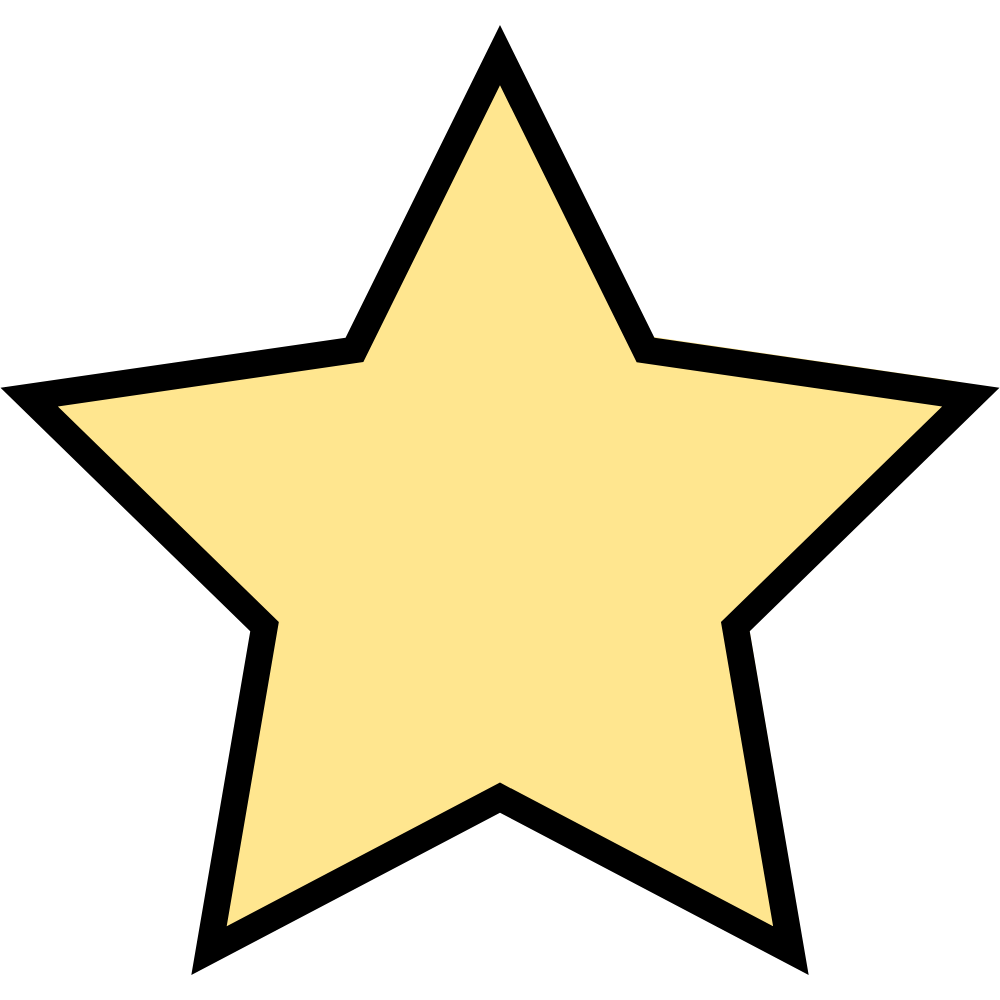
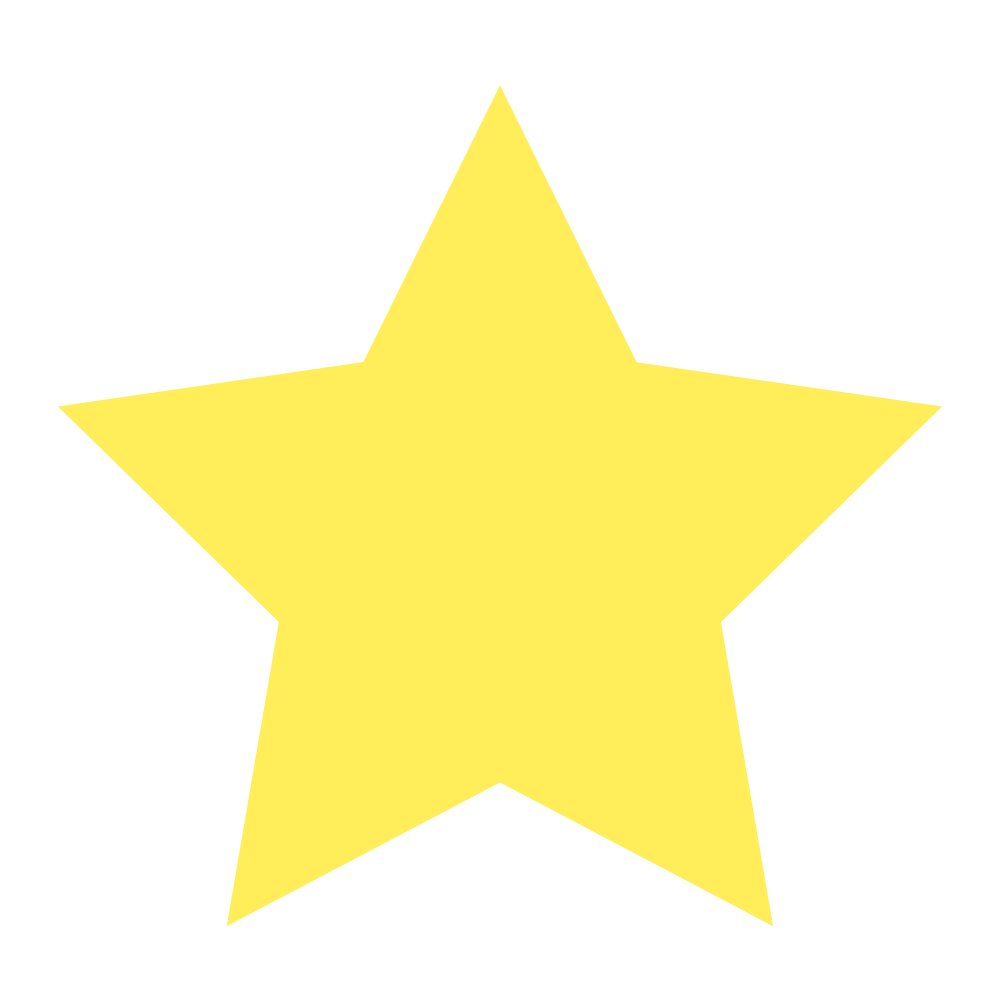
v1.1.1

diff --git a/public/config.html b/public/config.html
@@ -15,9 +15,8 @@
         <nav class="nav">
             <a href="inicio.html" class="aDoNav">Inicio</a>
             <a href="avaliar.html" class="aDoNav">Avaliar</a>
-            <a href="admin.html" class="aDoNav">Admin</a>
         </nav>
-        <a href="perfil.html">
+        <a href="perfil.html" class="perfil-header">
             <div class="divFoto">
                 <img src="css/fotos/semFoto.png" alt="Sem foto" width="40px">
                 <p>Sem nome</p>
@@ -27,5 +26,33 @@
             <a href="config.html" class="aDoNav"><img src="css/fotos/config.png" alt="Configurações" width="40px" class="engrenagem"></a>
         </div>
     </header>
+    <main>
+        <section class="sec-boxes">
+            <a href="admin.html">
+                <div class="config-box">
+                    <div>
+                        <img src="css/fotos/admin.png" alt="Adiminstrador logo" width="200px">
+                    </div>
+                    <div>
+                        <h2>Admin</h2>
+                        <p>Painel de administrador.</p>
+                    </div>
+                </div>
+            </a>
+
+            <a href="perfil.html">
+                <div class="config-box">
+                    <div>
+                        <img src="css/fotos/semFoto.png" alt="Perfil logo" width="200px">
+                    </div>
+                    <div>
+                        <h2>Perfil</h2>
+                        <p>Configure seu perfil.</p>
+                    </div>
+                </div>
+            </a>
+            
+        </section>
+    </main>
 </body>
 </html>

diff --git a/public/css/avaliar.css b/public/css/avaliar.css
@@ -70,6 +70,7 @@
 .input-box {
     display: flex;
     flex-direction: column;
+    margin-bottom:2%;
 }
 
 .input-box label {
@@ -83,7 +84,11 @@
     background-color: rgb(5, 0, 39);
     border: black 2px solid;
     color: white;
-    font-family: cursive;
+    transition: 1s;
+}
+
+.input-box input:focus, select:focus, textarea:focus {
+    transform: scale(1.01);
 }
 
 .estrelas-box {
@@ -107,4 +112,13 @@
     font-size: larger;
     border: none;
     border-radius: 15px;
+    transition: 0.5s;
+}
+
+.enviar-avaliar:hover {
+    transform: scale(1.05);
+}
+.enviar-avaliar:active {
+    transition: 0.2s;
+    transform: scale(0.95);
 }

diff --git a/public/css/config.css b/public/css/config.css
@@ -1,0 +1,36 @@
+.sec-boxes {
+    display: grid;
+    grid-template-columns: 1fr 1fr;
+    place-items: center;
+}
+
+.config-box {
+    display: grid;
+    grid-template-columns: 1fr 2fr;
+    width: 500px;
+    gap: 10px;
+    background-color: rgb(8, 0, 46);
+    color: white;
+    padding: 2%;
+    border: white 3px solid;
+    margin-top: 5%;
+    transition: 0.2s;
+}
+
+.config-box:hover {
+    transform: scale(1.05);
+}
+
+.config-box:active {
+    transform: scale(0.95);
+}
+
+.config-box h2 {
+    font-family: Titulos;
+    font-size: 38px;
+}
+
+.config-box p {
+    font-family: cursive;
+    font-size: 20px;
+}

diff --git a/public/css/global.css b/public/css/global.css
@@ -27,7 +27,7 @@ textarea {
 
 .header {
     display: grid;
-    grid-template-columns: 1fr 2fr 1fr 1fr;
+    grid-template-columns: 1fr 3fr 2fr 0.5fr;
     padding: 0.01% 0.01% 0.01% 1%;
     background-color: rgb(0, 0, 20);
     color: white;
@@ -65,13 +65,17 @@ body {
     transform: scale(1.2);
 }
 
+.perfil-header {
+    display: flex;
+    justify-content: flex-end;
+}
+
 .divFoto {
     display: flex;
     flex-direction: row;
     gap: 10px;
-    margin-top: 5%;
     padding: 1%;
-    border-radius: 8px;
+    border-radius: 18px;
     align-items: center;
     width: fit-content;
     font-family: Titulos;

diff --git a/public/avaliar.html b/public/avaliar.html
@@ -15,9 +15,8 @@
         <nav class="nav">
             <a href="inicio.html" class="aDoNav">Inicio</a>
             <a href="avaliar.html" class="aDoNav">Avaliar</a>
-            <a href="admin.html" class="aDoNav">Admin</a>
         </nav>
-        <a href="perfil.html">
+        <a href="perfil.html" class="perfil-header">
             <div class="divFoto">
                 <img src="css/fotos/semFoto.png" alt="Sem foto" width="40px">
                 <p>Sem nome</p>

diff --git a/public/inicio.html b/public/inicio.html
@@ -15,9 +15,8 @@
         <nav class="nav">
             <a href="inicio.html" class="aDoNav">Inicio</a>
             <a href="avaliar.html" class="aDoNav">Avaliar</a>
-            <a href="admin.html" class="aDoNav">Admin</a>
         </nav>
-        <a href="perfil.html">
+        <a href="perfil.html" class="perfil-header">
             <div class="divFoto">
                 <img src="css/fotos/semFoto.png" alt="Sem foto" width="40px">
                 <p>Sem nome</p>

diff --git a/public/perfil.html b/public/perfil.html
@@ -15,9 +15,8 @@
         <nav class="nav">
             <a href="inicio.html" class="aDoNav">Inicio</a>
             <a href="avaliar.html" class="aDoNav">Avaliar</a>
-            <a href="admin.html" class="aDoNav">Admin</a>
         </nav>
-        <a href="perfil.html">
+        <a href="perfil.html" class="perfil-header">
             <div class="divFoto">
                 <img src="css/fotos/semFoto.png" alt="Sem foto" width="40px">
                 <p>Sem nome</p>
